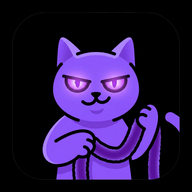
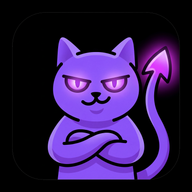
feat: update mascot to final version (arms crossed + glowing tail)
- Replace PWA icons (192, 512) with new design
- Replace favicon with static icon.png (remove old dynamic icon.tsx)
- Add dedicated apple-touch-icon.png (180x180) for iOS

Changed region(s): [[0.2188, 0.1875, 0.9375, 0.9375]]

diff --git a/src/app/rep/layout.tsx b/src/app/rep/layout.tsx
@@ -258,7 +258,7 @@ export default function RepLayout({ children }: { children: ReactNode }) {
     if (!document.querySelector('link[rel="apple-touch-icon"]')) {
       const touchIcon = document.createElement("link");
       touchIcon.rel = "apple-touch-icon";
-      touchIcon.href = "/pwa-icon-512.png";
+      touchIcon.href = "/apple-touch-icon.png";
       document.head.appendChild(touchIcon);
     }
   }, []);
